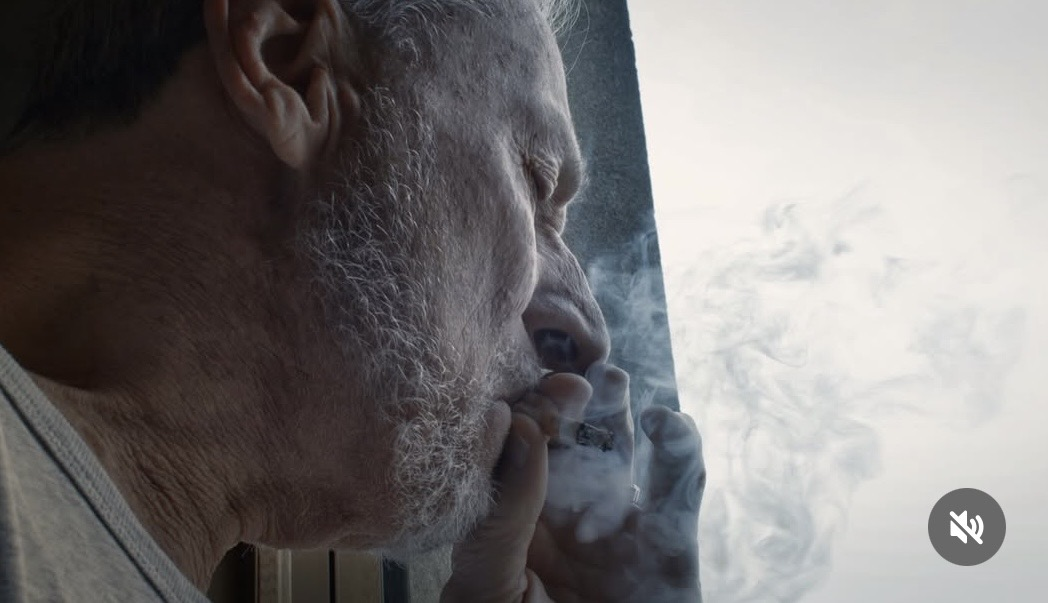
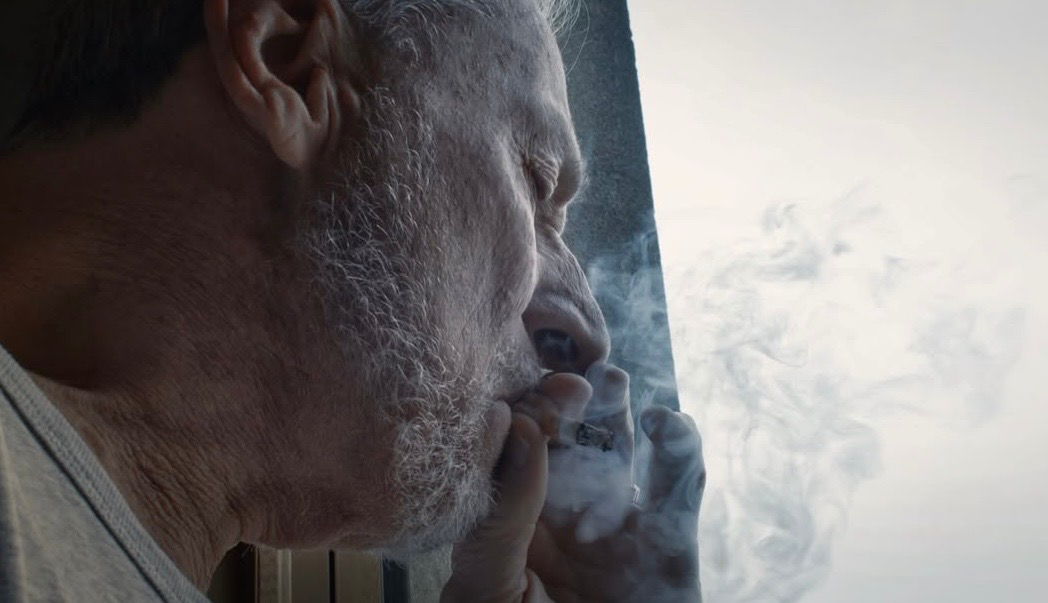
fixed side menu

Changed region(s): [[0.8855, 0.806, 0.9771, 0.9552]]

diff --git a/index.html b/index.html
@@ -102,9 +102,9 @@
       <nav class="navbar" data-navbar>
 
         <div class="navbar-top">
-          <a href="#" class="logo">
+         <!-- <a href="#" class="logo">
             <img src="./assets/images/nav-logo.svg" width="140" height="40" alt="Alberto De Grandis home" class="img">
-          </a>
+          </a> -->
 
           <button class="nav-close-btn" aria-label="close menu" data-nav-toggler>
             <span class="span one"></span>
@@ -144,7 +144,7 @@
 
         <p class="navbar-text">
           Per collaborazioni
-          <a href="/cdn-cgi/l/email-protection#fc98999b8e9d9298958fd29f959299919dbc9b919d9590d29f9391" class="contact-link"><span class="__cf_email__" data-cfemail="e7838280958689838e94c9848e89828a86a7808a868e8bc984888a">[email&#160;protected]</span></a>
+<a href="mailto:degrandis.cinema@gmail.com" class="contact-link"> degrandis.cinema@gmail.com </a>
         </p>
 
       </nav>
